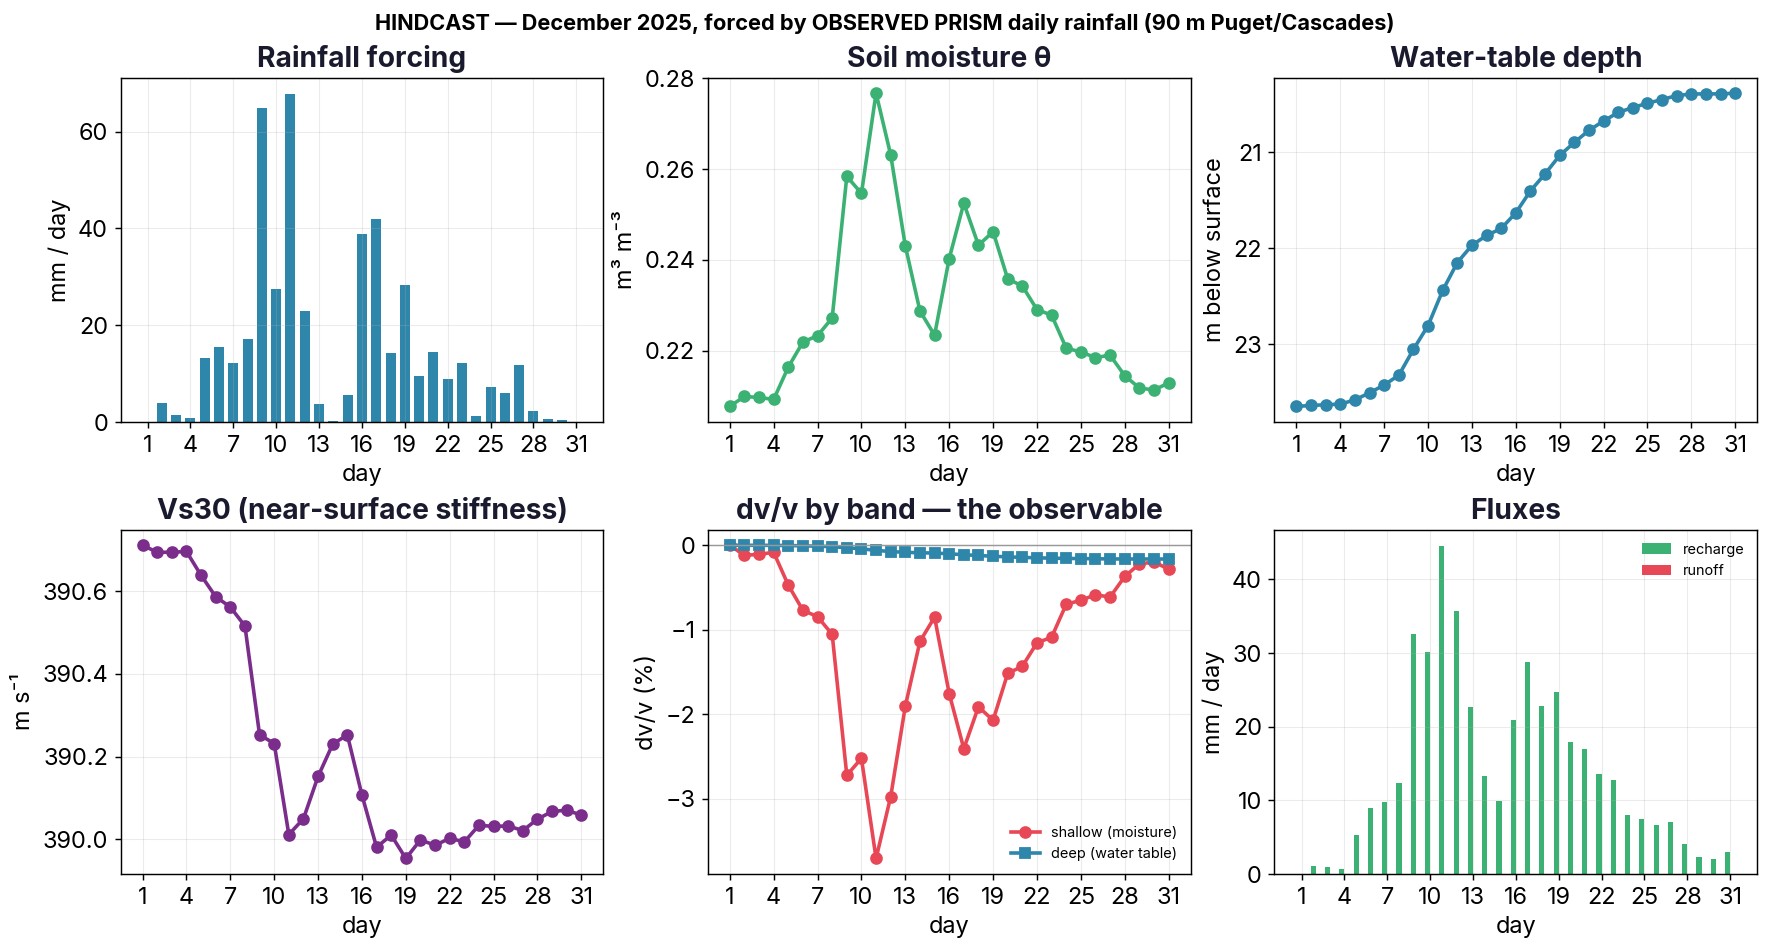
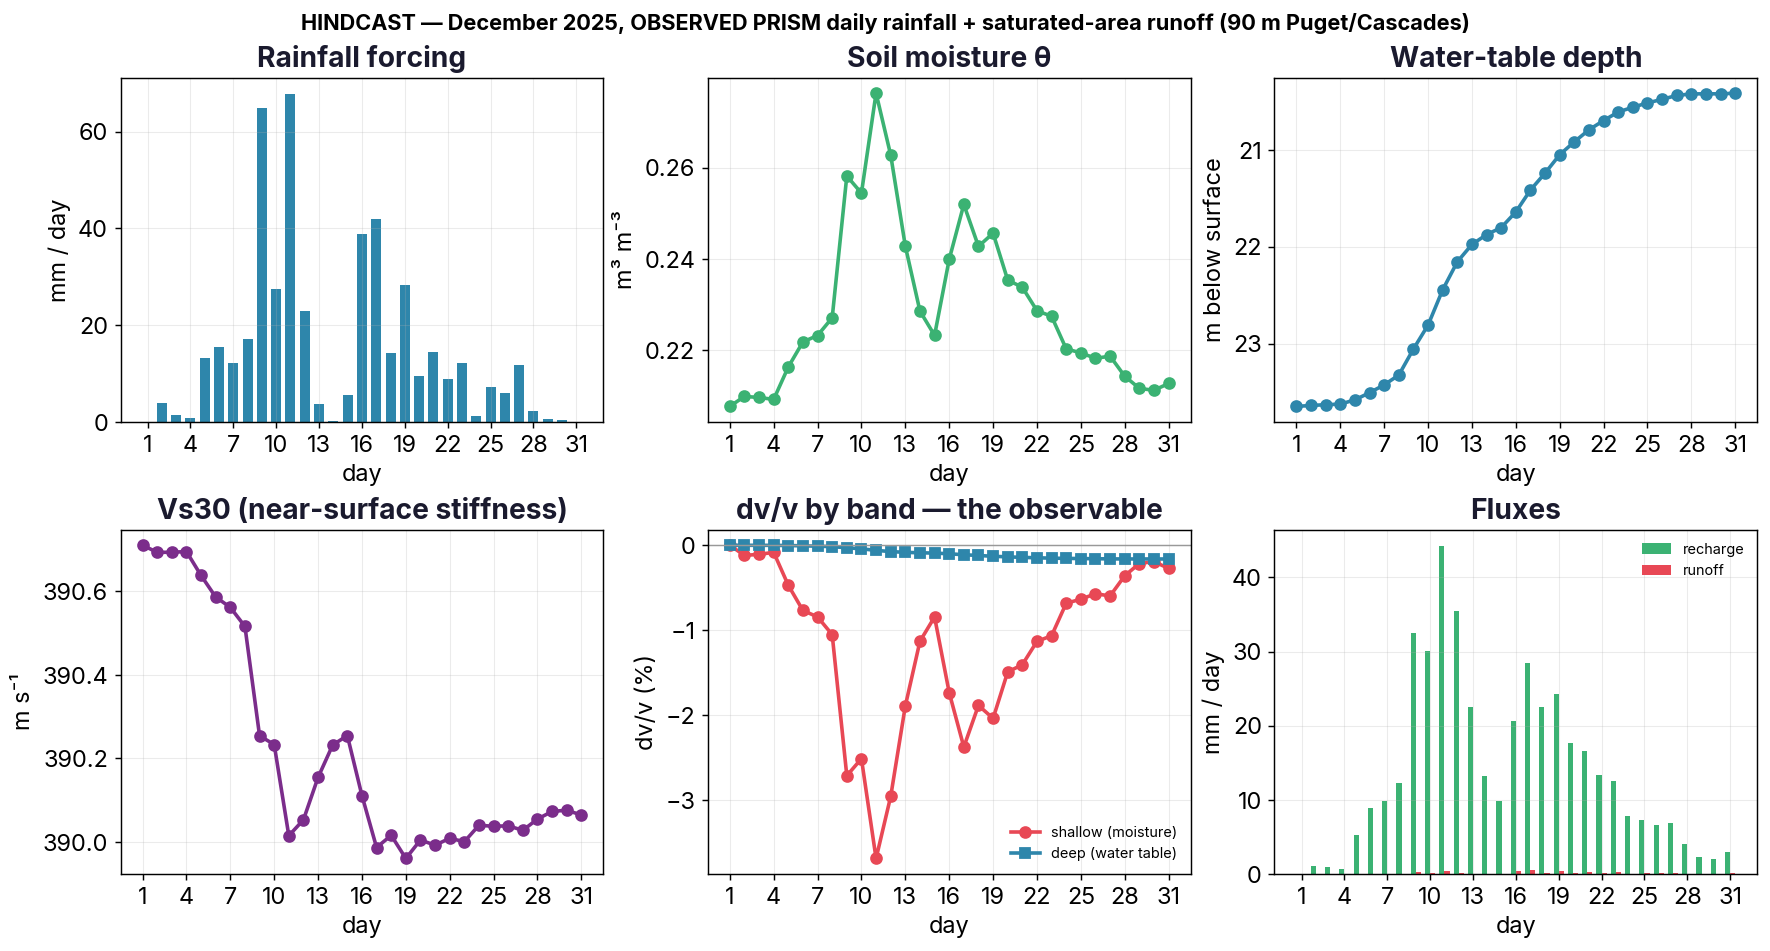
feat(water-budget): saturated-area (variable-source-area) runoff + a well-validated diagnosis
Runoff GENERATION is ours (it is a sink in our own budget, so omitting it biases theta and
GWL high); runoff ROUTING stays LandLab's job (issue #55). Implemented the dominant humid-
temperate mechanism: rain cannot infiltrate where there is no space between the water table
and the surface, so runoff = max(liquid - S_y*wt_depth*1000, 0). Continuous, not a switch:
at a 1 m table 224 mm runs off and 167 mm still recharges (partial contributing area); where
the table outcrops, all rain runs off.

It fires exactly where it should -- on the shallow-table cells (median HAND 2.1 m, i.e. valley
floors) 404 of 455 mm runs off.

BUT it was NOT the bug, and the hindcast says so. Domain-wide, Dec 2025: runoff 4.4 mm,
recharge 425.8 mm -- 94% of rain becomes groundwater recharge (real PNW is ~20-40%). Only
0.57% of cells have a table shallow enough (<1 m) for the mechanism to fire, because the
baseline table is deep (median 23.4 m). And 426 mm / S_y 0.12 = 3.55 m, which fully accounts
for the modelled rise.

Validated against the wells rather than asserted: 1205 paired Nov->Dec observations at shallow
NWIS wells over 16 years give an observed rise of median +0.12 m (mean +0.21, p90 +0.84). The
model gives +3.24 m -- an over-prediction of ~8-26x.

Diagnosis: the vadose column has no lateral outlet. Everything above field capacity is forced
vertically into the water table, when in forested PNW hillslopes most of it leaves downslope as
[…]

diff --git a/src/models/water_budget.py b/src/models/water_budget.py
@@ -12,7 +12,12 @@ water through explicit fluxes, and lateral redistribution moves water down-gradi
       (GWL -> theta), closing the feedback.
 
   Lateral (issue #44)
-    - **saturation-excess surface runoff** is generated when the column fills to porosity,
+    - **saturated-area (variable-source-area) runoff**: where the water table is at or near the
+      surface there is no space to infiltrate into, so rain runs off. This is the dominant runoff
+      mechanism in humid temperate catchments like the PNW -- it fires on valley floors and riparian
+      corridors (HAND ~ 0) while ridges infiltrate freely. It is a **sink** in this budget, so
+      omitting it biases theta and the water table high,
+    - **root-zone saturation excess** on top of that, when the column itself fills to porosity,
     - **subsurface lateral flow** is represented by a TOPMODEL relation: the steady-state water
       table follows the topographic wetness index (valleys wet/shallow, ridges dry/deep),
     - generated runoff can be routed down-gradient with a flow-accumulation weight.
@@ -25,9 +30,11 @@ the scale storms actually happen: aggregating a 10-day forecast to a monthly mea
 event signal the forecast exists to provide, and a concentrated storm generates far more
 saturation-excess runoff (and less recharge) than the same water spread evenly over a month.
 
-Scope / caveats (tracked as follow-ups): *infiltration-excess* runoff (intensity-driven, needs
-sub-daily rainfall) is still not represented (issue #57); full channel routing to a hydrograph is left
-to a downstream runoff model (issue #55). Nominal parameters (specific yield, recession time,
+Scope / caveats (tracked as follow-ups): *infiltration-excess* (Hortonian) runoff is still not
+represented (issue #57) -- it is intensity-driven and needs sub-daily rain: a 68 mm/day storm is only
+2.8 mm/hr, far below these soils' Ksat (15-55 mm/hr), so it correctly never fires at a daily mean even
+though real storms burst well above it. Runoff *routing* to a hydrograph is deliberately NOT done here
+-- we generate the source term and LandLab routes it (issue #55). Nominal parameters (specific yield, recession time,
 capillary reach, TOPMODEL m) are calibration-pending.
 """
 
@@ -79,7 +86,8 @@ def _capillary_rise(wt_depth_m, root_depth_m, deficit_frac, cap_max_mm, fringe_m
 def coupled_water_budget(liquid_in_mm, pet_mm, theta_wp, theta_fc, theta_sat, root_depth_m=1.0,
                          specific_yield=SPECIFIC_YIELD, recession_months=RECESSION_MONTHS,
                          cap_max_mm=CAP_MAX_MM, cap_fringe_m=CAP_FRINGE_M, drain_frac=_DRAIN_FRAC,
-                         wt_depth0_m=5.0, init="fc", dt_days=None, drain_tau_days=DRAIN_TAU_DAYS):
+                         wt_depth0_m=5.0, init="fc", dt_days=None, drain_tau_days=DRAIN_TAU_DAYS,
+                         sat_area_runoff=True):
     """Time-step the coupled vadose-column + water-table budget at an arbitrary timestep.
 
     ``liquid_in_mm`` (rain + snowmelt) and ``pet_mm`` are (t, ...) arrays **per timestep** — mm/month
@@ -140,8 +148,23 @@ def coupled_water_budget(liquid_in_mm, pet_mm, theta_wp, theta_fc, theta_sat, ro
         cap_eff = np.minimum(S + cap, Ssat) - S              # actual added (exact mass balance)
         S = S + cap_eff
 
-        S = S + liquid[t]
-        runoff = np.maximum(S - Ssat, 0.0); S = S - runoff   # saturation-excess surface runoff
+        # --- saturated-area (variable-source-area) runoff -----------------------------------------
+        # The dominant runoff mechanism in humid temperate catchments: rain falling where the water
+        # table is at/near the surface cannot infiltrate, because there is no space to put it. The
+        # storage available between the table and the surface is S_y * wt_depth; anything above that
+        # runs off. Where the table outcrops (wt_depth <= 0) the deficit is zero and ALL rain runs off.
+        # This fires on valley floors / riparian corridors (HAND ~ 0) while ridges infiltrate freely,
+        # which is exactly the variable source area -- and it is a SINK in this budget, so omitting it
+        # biases theta and the water table high.
+        if sat_area_runoff:
+            deficit_mm = np.clip(specific_yield * wt_depth, 0.0, None) * 1000.0
+            sat_runoff = np.maximum(liquid[t] - deficit_mm, 0.0)
+        else:
+            sat_runoff = np.zeros_like(S)
+
+        S = S + (liquid[t] - sat_runoff)                     # only what can infiltrate
+        excess = np.maximum(S - Ssat, 0.0); S = S - excess   # root-zone saturation excess
+        runoff = sat_runoff + excess
         aet = np.minimum(pet[t], np.maximum(S - Swp, 0.0)); S = S - aet
         rech = np.maximum(S - Sfc, 0.0) * drain_step; S = S - rech   # deep percolation = recharge
         S = np.clip(S, Swp, Ssat)